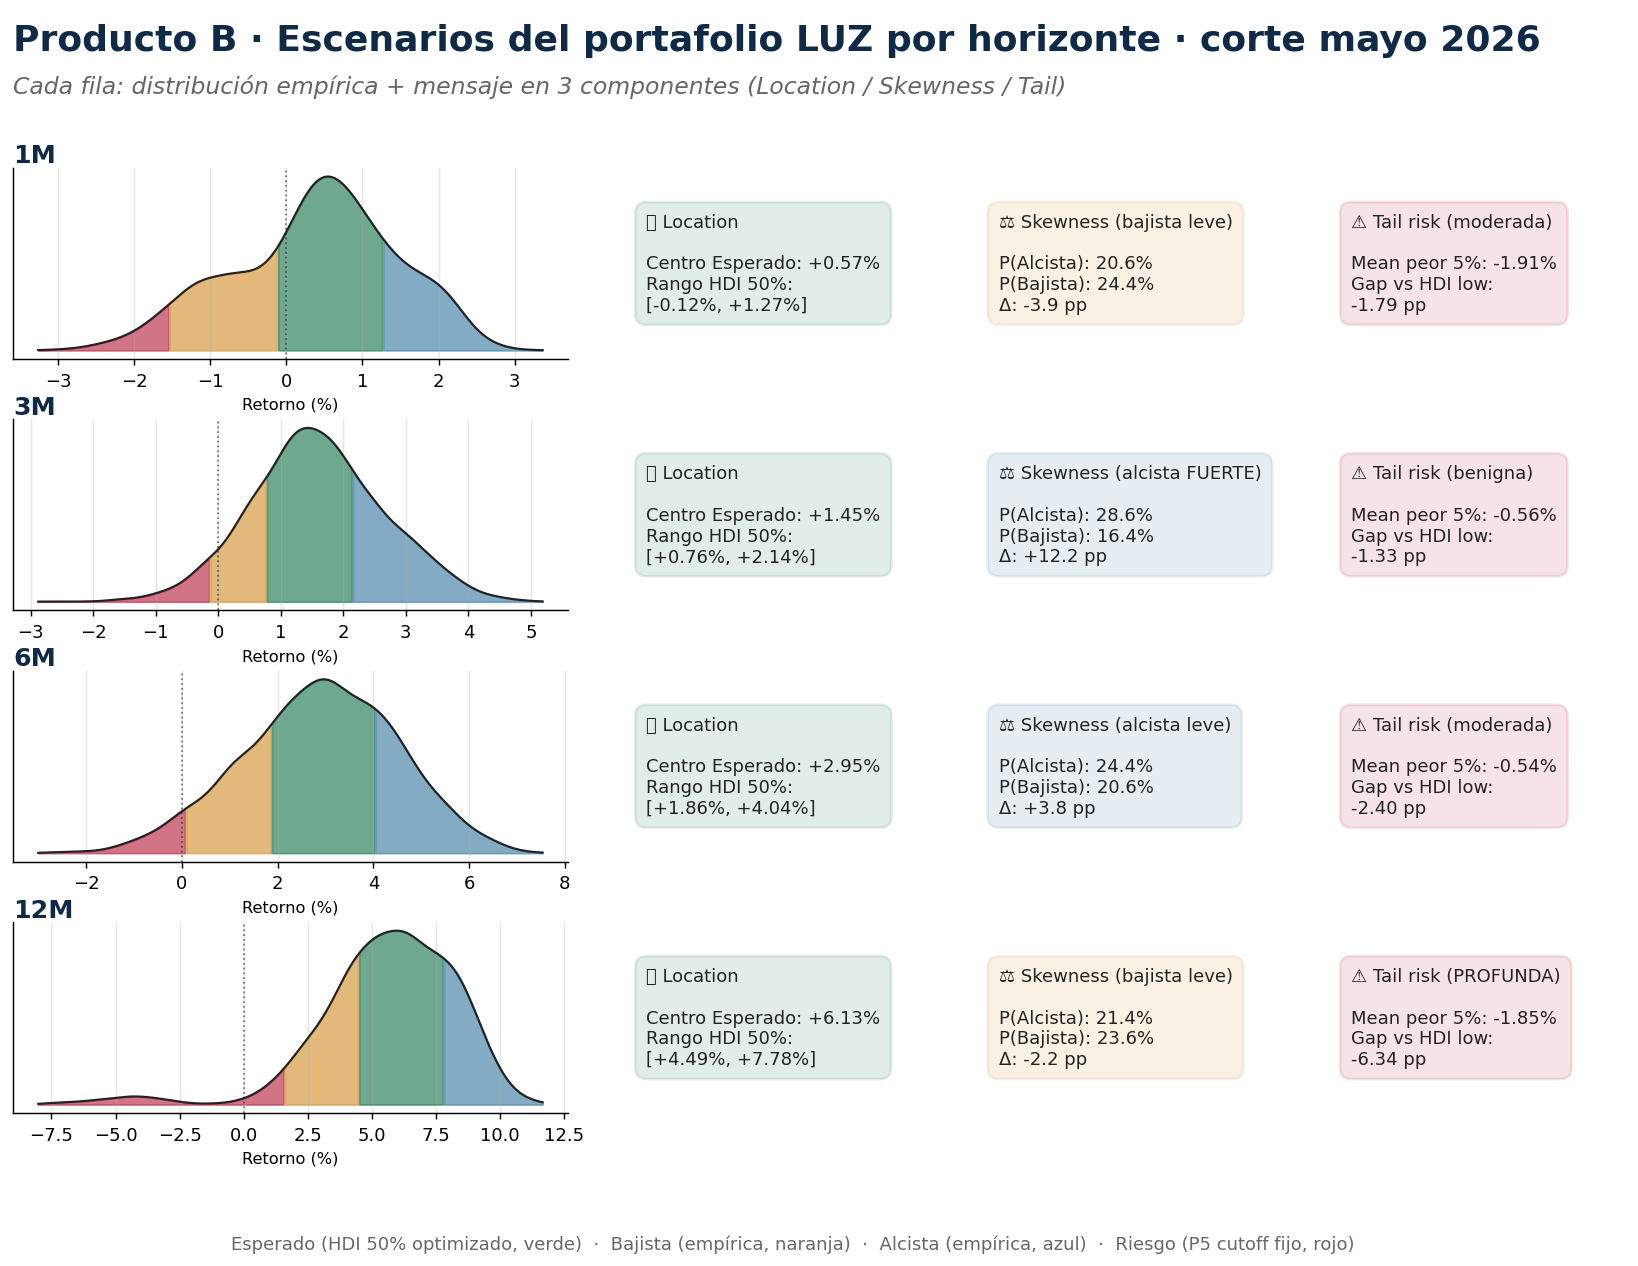
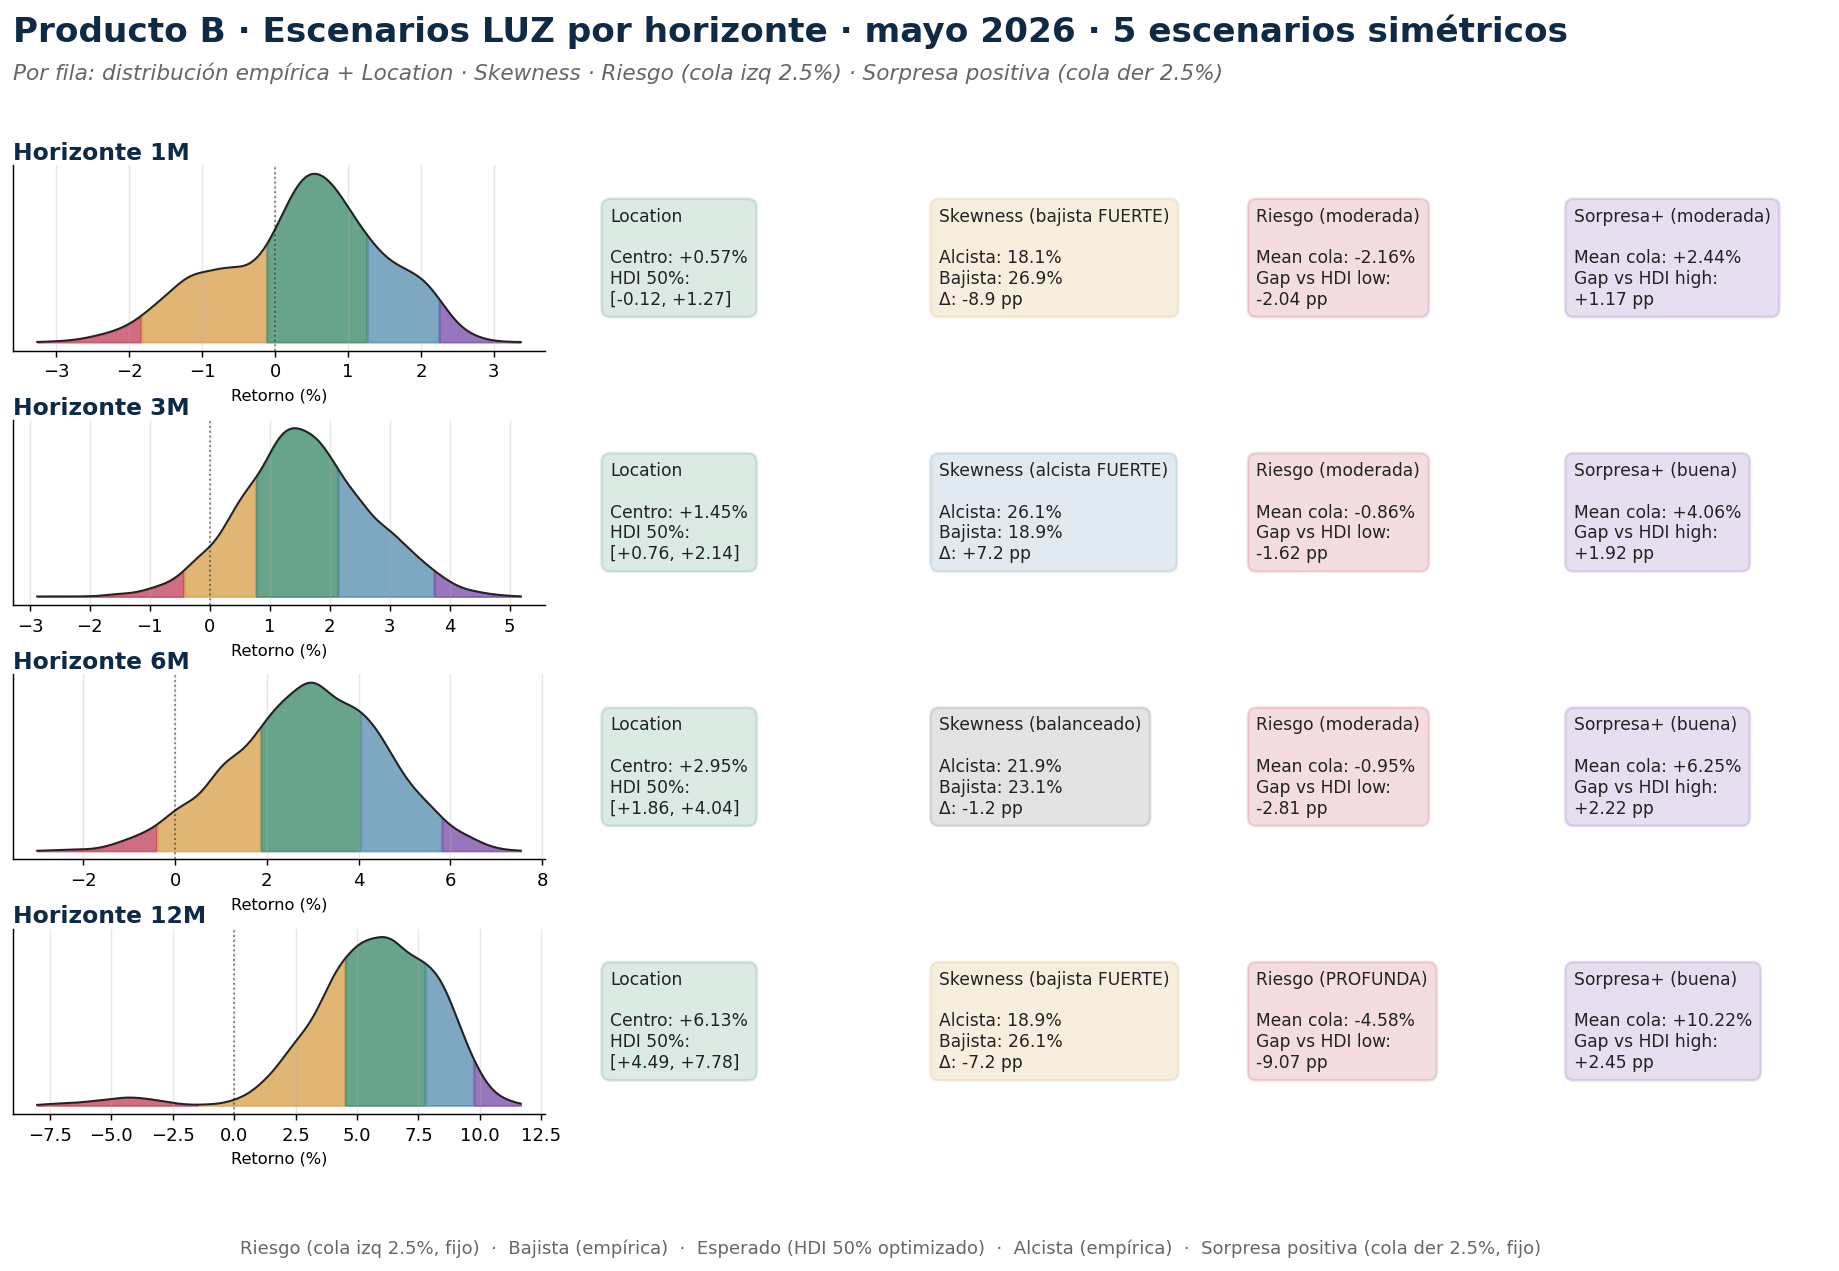
feat(producto B): 5 escenarios simétricos con cola positiva (Sorpresa+)
CAMBIO CONCEPTUAL (feedback AB):
- Antes: 4 escenarios (Riesgo 5% / Bajista / Esperado / Alcista). El
  Riesgo asimétrico (solo izq) hacía imposible comparar 'peras con peras'
  el skewness real (Bajista vs Alcista) porque la cola der completa
  estaba dentro de Alcista.
- Ahora: 5 escenarios simétricos (Riesgo 2.5% / Bajista / Esperado /
  Alcista / Sorpresa positiva 2.5%). Bajista y Alcista están entre
  cutoffs simétricos: su diferencia mide skewness real, no efecto de
  cutoff asimétrico.

Suma: 2.5% + Bajista + 50% + Alcista + 2.5% = 100%.
Bajista + Alcista = 45%, repartido empíricamente.

Mensaje editorial ahora tiene 4 componentes (antes 3):
1. Location (HDI centro y rango).
2. Skewness (Alcista vs Bajista del 45% empírico).
3. Riesgo (peor 2.5% — mean + gap vs HDI low).
4. Sorpresa positiva (mejor 2.5% — mean + gap vs HDI high).

Lámina demo regenerada: 4 boxes a la derecha del KDE por fila.
KDE con 5 zonas coloreadas (color violeta para Sorpresa positiva).

diff --git a/src/tasas_mercantil/producto_b/nearest_neighbors.py b/src/tasas_mercantil/producto_b/nearest_neighbors.py
@@ -230,33 +230,31 @@ class ScenarioSet:
     K: int
     n_neighbors_with_returns: int
     raw_returns: np.ndarray
+    risk: Scenario          # cola izq extrema (cutoff fijo)
+    bearish: Scenario       # entre risk y HDI low (empírica)
     expected: Scenario      # HDI 50% (optimizado)
-    bullish: Scenario       # masa entre HDI high y +∞ (probabilidad empírica)
-    bearish: Scenario       # masa entre risk cutoff y HDI low (probabilidad empírica)
-    risk: Scenario          # peor 5% por defecto (cutoff fijo en cola izquierda)
+    bullish: Scenario       # entre HDI high y upside (empírica)
+    upside: Scenario        # cola der extrema (cutoff fijo)
 
     def all_scenarios(self) -> list[Scenario]:
-        return [self.expected, self.bullish, self.bearish, self.risk]
+        return [self.risk, self.bearish, self.expected, self.bullish, self.upside]
 
 
 def build_scenarios(
     returns: np.ndarray, label: str, horizon_months: int, K: int,
-    risk_mass: float = 0.05,
+    tail_mass: float = 0.025,
 ) -> ScenarioSet | None:
-    """Particiona los retornos en 4 escenarios con framework riguroso:
+    """Particiona los retornos en 5 escenarios con framework simétrico:
 
-    1. **Esperado (HDI 50%)**: rango más angosto que contiene 50% de la masa.
-       Es lo único optimizado. Tiene libertad completa para sesgarse según
-       la distribución real (no forzado al centro).
-    2. **Riesgo**: cola izquierda con masa fija = risk_mass (default 5%).
-       Cutoff por percentil, no por target de probabilidad.
-    3. **Bajista**: TODO lo que queda entre Riesgo y HDI low. Probabilidad
-       se **calcula empíricamente**, no se impone.
-    4. **Alcista**: TODO lo que queda a la derecha del HDI. Probabilidad
-       empírica.
+    1. **Riesgo** (cola izquierda): peor `tail_mass` (default 2.5%) por percentil fijo.
+    2. **Bajista**: entre Riesgo y HDI low. Probabilidad empírica.
+    3. **Esperado (HDI 50%)**: rango más angosto que contiene 50% de la masa. ÚNICO optimizado.
+    4. **Alcista**: entre HDI high y Sorpresa positiva. Probabilidad empírica.
+    5. **Sorpresa positiva** (cola derecha): mejor `tail_mass` por percentil fijo.
 
-    Suma: 5% + Bajista_p + 50% + Alcista_p = 100% → Bajista_p + Alcista_p = 45%.
-    Si la distribución es asimétrica, Bajista ≠ Alcista — y eso es información.
+    Suma: 2.5% + Bajista + 50% + Alcista + 2.5% = 100%.
+    Bajista + Alcista = 45% empíricamente distribuido — su diferencia es skewness real
+    (peras con peras, simétrico en los cutoffs).
     """
     if len(returns) < 5:
         return None
@@ -264,7 +262,7 @@ def build_scenarios(
     sorted_r = np.sort(returns)
     n = len(sorted_r)
 
-    # 1. HDI 50% (optimizado)
+    # 1. HDI 50%
     window = int(np.ceil(n * 0.50))
     if window >= n:
         hdi_low, hdi_high = float(sorted_r[0]), float(sorted_r[-1])
@@ -273,15 +271,19 @@ def build_scenarios(
         j = int(np.argmin(widths))
         hdi_low, hdi_high = float(sorted_r[j]), float(sorted_r[j + window])
 
-    # 2. Cutoff Riesgo: peor risk_mass de la cola izquierda
-    risk_idx = max(1, int(np.round(risk_mass * n)))
-    risk_cutoff = float(sorted_r[risk_idx - 1])  # último valor que pertenece a riesgo
+    # 2. Cutoffs colas simétricos
+    tail_idx_left = max(1, int(np.round(tail_mass * n)))
+    risk_cutoff = float(sorted_r[tail_idx_left - 1])
+
+    tail_idx_right = max(1, int(np.round(tail_mass * n)))
+    upside_cutoff = float(sorted_r[-tail_idx_right])
 
     # 3. Particionar
-    risk_returns = returns[returns <= risk_cutoff]
-    bear_returns = returns[(returns > risk_cutoff) & (returns < hdi_low)]
-    exp_returns  = returns[(returns >= hdi_low) & (returns <= hdi_high)]
-    bull_returns = returns[returns > hdi_high]
+    risk_returns    = returns[returns <= risk_cutoff]
+    bear_returns    = returns[(returns > risk_cutoff) & (returns < hdi_low)]
+    exp_returns     = returns[(returns >= hdi_low) & (returns <= hdi_high)]
+    bull_returns    = returns[(returns > hdi_high) & (returns < upside_cutoff)]
+    upside_returns  = returns[returns >= upside_cutoff]
 
     def _sc(name, arr):
         prob = len(arr) / n
@@ -297,10 +299,11 @@ def build_scenarios(
         K=K,
         n_neighbors_with_returns=n,
         raw_returns=returns,
+        risk=_sc("Riesgo (cola izq 2.5%)", risk_returns),
+        bearish=_sc("Bajista", bear_returns),
         expected=_sc("Esperado (HDI 50%)", exp_returns),
         bullish=_sc("Alcista", bull_returns),
-        bearish=_sc("Bajista", bear_returns),
-        risk=_sc("Riesgo (cola izq)", risk_returns),
+        upside=_sc("Sorpresa positiva (cola der 2.5%)", upside_returns),
     )
 
 
